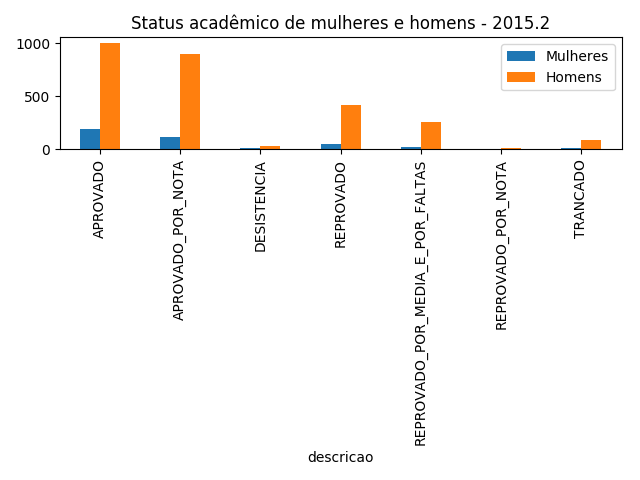
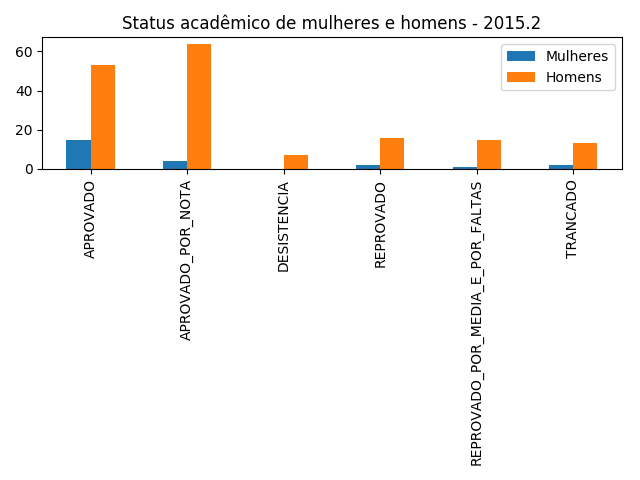
Atualiza plots

diff --git a/results.py b/results.py
@@ -53,13 +53,14 @@ def box_plot(df1, df2, column, semestre):
 	plt.close()
 
 
-def bar_plot(itens, semestre):
+def bar_plot(itens, semestre, title, output):
 	df = pd.DataFrame(itens, columns=['Mulheres', 'Homens'])
+	print(df)
 	plt.figure()
 	df.plot.bar()
-	plt.title("Status acadêmico de mulheres e homens - " + semestre[:4]+"."+semestre[4])
+	plt.title(title +" - " + semestre[:4]+"."+semestre[4])
 	plt.tight_layout() 
-	plt.savefig("data/resultados/plots/status"+semestre+".png")
+	plt.savefig("data/resultados/plots/"+output+semestre+".png")
 	plt.close()
 
 dataframes = []
@@ -111,14 +112,29 @@ for i, dataframe in enumerate(dataframes_completos):
 	box_plot(mulheres_df, homens_df, 'numero_total_faltas', semestres[i])
 
 
-for i, dataframe in enumerate(dataframes_completos):
+for i, dataframe in enumerate(dataframes):
 	# selecionar so os dados por sexo
 	mulheres_df = dataframe[dataframe.sexo == 'F']
 	homens_df = dataframe[dataframe.sexo == 'M']
 
 	status_mulheres = mulheres_df.groupby(["descricao"])['sexo'].count()
 	status_homens = homens_df.groupby(["descricao"])['sexo'].count()
-	lista_descricao = dataframe['descricao'].unique()
 	raw_data = {'Mulheres' : status_mulheres, 'Homens' : status_homens}
 
-	bar_plot(raw_data, semestres[i])
+	bar_plot(raw_data, semestres[i], "Status acadêmico de mulheres e homens", "status")
+
+	####
+
+	raca_mulheres = mulheres_df.groupby(["raca"])['sexo'].count()
+	raca_homens = homens_df.groupby(["raca"])['sexo'].count()
+	raw_data = {'Mulheres' : raca_mulheres, 'Homens' : raca_homens}
+
+	bar_plot(raw_data, semestres[i], "Raça de mulheres e homens", "raca")
+
+	####
+
+	formaIng_mulheres = mulheres_df.groupby(["forma_ingresso"])['sexo'].count()
+	formaIng_homens = homens_df.groupby(["forma_ingresso"])['sexo'].count()
+	raw_data = {'Mulheres' : formaIng_mulheres, 'Homens' : formaIng_homens}
+
+	bar_plot(raw_data, semestres[i], "Forma de ingresso de mulheres e homens", "forma_ingresso")
